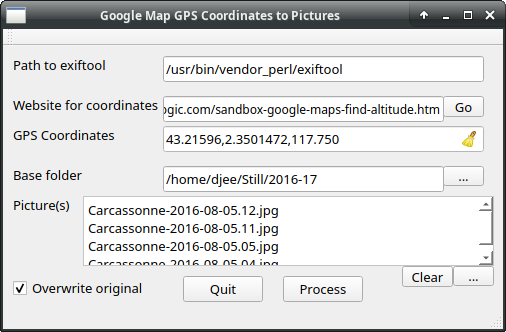
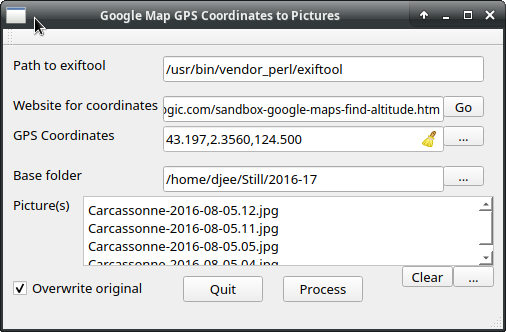
addition of -m and extraction of coordinates added -m to exiftool command line to correct minor errors when applying coordinates on photos added button next to GPS coordinates text area to extract coordinates from a photo and copy them to this text area

diff --git a/mainwindow.cpp b/mainwindow.cpp
@@ -95,13 +95,13 @@ void MainWindow::on_gpsCoodinates_textChanged(const QString &text)
     QRegExp rxSexagesimal("\\D*(\\d+) *° *(\\d+) *' *(\\d*(?:\\.\\d*)?) *\" *([nNsS])"
                           "\\D*(\\d+) *° *(\\d+) *' *(\\d*(?:\\.\\d*)?) *\" *([eEwW])"
                           "(?:[^0-9.-]+(-?\\d*(?:\\.\\d*)?))?\\D*$");
-    mLattitude = mLongitude = mAltitude = 1e99;
+    mLatitude = mLongitude = mAltitude = 1e99;
     if (rxSexagesimal.indexIn(text)>-1 /*&& capturedQRegsNotEmpty(rxSexagesimal)*/) {
-        mLattitude = rxSexagesimal.cap(1).toDouble();
-        mLattitude += rxSexagesimal.cap(2).toDouble() / 60.0;
-        mLattitude += rxSexagesimal.cap(3).toDouble() / 3600.0;
+        mLatitude = rxSexagesimal.cap(1).toDouble();
+        mLatitude += rxSexagesimal.cap(2).toDouble() / 60.0;
+        mLatitude += rxSexagesimal.cap(3).toDouble() / 3600.0;
         if(QString("sS").indexOf(rxSexagesimal.cap(4)[0])>-1)
-         mLattitude = -mLattitude;
+         mLatitude = -mLatitude;
         mLongitude = rxSexagesimal.cap(5).toDouble();
         mLongitude += rxSexagesimal.cap(6).toDouble() / 60.0;
         mLongitude += rxSexagesimal.cap(7).toDouble() / 3600.0;
@@ -112,7 +112,7 @@ void MainWindow::on_gpsCoodinates_textChanged(const QString &text)
          }
        }
     else if (rxDecimal.indexIn(text)>-1 && capturedQRegsNotEmpty(rxDecimal)) {
-      mLattitude = rxDecimal.cap(1).toDouble();
+      mLatitude = rxDecimal.cap(1).toDouble();
       mLongitude = rxDecimal.cap(2).toDouble();
       if(!rxDecimal.cap(3).isEmpty()) {
           mAltitude = rxDecimal.cap(3).toDouble();
@@ -120,7 +120,7 @@ void MainWindow::on_gpsCoodinates_textChanged(const QString &text)
      }
     if(coordinatesAreOkay()) {
         ui->gpsCoodinates->setStyleSheet("QLineEdit " + mcOkayStyle);
-        QString test = "" +  QString("%1").arg(mLattitude) + " ~ " + QString("%1").arg(mLongitude);
+        QString test = "" +  QString("%1").arg(mLatitude) + " ~ " + QString("%1").arg(mLongitude);
         if(altitudeIsOkay()) {
             test += QString(" %1m").arg(mAltitude);
         }
@@ -136,7 +136,7 @@ void MainWindow::on_gpsCoodinates_textChanged(const QString &text)
 
 bool MainWindow::coordinatesAreOkay() const
 {
-    return(mLattitude >= -360.0 && mLattitude<=360.0 &&
+    return(mLatitude >= -360.0 && mLatitude<=360.0 &&
            mLongitude >= -360.0 && mLongitude<=360.0);
 }
 
@@ -162,10 +162,10 @@ bool MainWindow::manageGoPushButton()
 void MainWindow::on_pushBtnGo_clicked()
 {
     QString app = ui->pathToExiftool->text();
-    QString command = QString("\"%1\" -GPSLatitude=%2 -GPSLatitudeRef=%3 -GPSLongitude=%4 -GPSLongitudeRef=%5")
+    QString command = QString("\"%1\" -m -GPSLatitude=%2 -GPSLatitudeRef=%3 -GPSLongitude=%4 -GPSLongitudeRef=%5")
             .arg(quoteQString(app))
-            .arg(abs(mLattitude))
-            .arg(mLattitude>=0 ? "N" : "S")
+            .arg(abs(mLatitude))
+            .arg(mLatitude>=0 ? "N" : "S")
             .arg(abs(mLongitude))
             .arg(mLongitude>=0 ? "E" : "W");
     if(altitudeIsOkay()) {
@@ -235,4 +235,56 @@ void MainWindow::on_checkOverwrite_stateChanged(int checked)
 {
     mOverwriteOriginal =  checked ? true : false;
     mSettings.updateOverwriteOriginal(mOverwriteOriginal);
+}
+
+void MainWindow::on_pushBtnGetCoordFromFile_clicked()
+{
+    QFileDialog dialog(this, tr("Get GPS Coord. from File"), mSettings.getFolder());
+    dialog.setFileMode(QFileDialog::ExistingFile);
+    dialog.setLabelText(QFileDialog::Accept, "Select");
+    dialog.setNameFilter(tr("Images (*.png *.xpm *.jpg *.PNG *.JPG *.XPM);;All (*)"));
+    if (dialog.exec()!=QDialog::Accepted || dialog.selectedFiles().length()<1)
+     return;
+    QString selectedFile = dialog.selectedFiles().first();
+    QString app = ui->pathToExiftool->text();
+    QString command = QString("%1 %2 -gps:gpslatitude -gps:gpslatituderef -gps:gpslongitude -gps:gpslongituderef -gps:gpsaltitude")
+            .arg(quoteQString(app))
+            .arg(quoteQString(selectedFile));
+    QProcess process;
+    process.start(command);
+    process.waitForFinished(-1); // will wait forever until finished
+    QString stdOut = process.readAllStandardOutput();
+    QRegExp rxLatitude("[Ll]atitude *:? *(\\d+) *deg *(\\d+) *' *(\\d*(?:\\.\\d*)?) *\".*((?:North)|(?:South))");
+    QString latitude="undefined";
+    if (rxLatitude.indexIn(stdOut)>-1) {
+        latitude = QString("%1°%2'%3\"%4")
+                .arg(rxLatitude.cap(1)).arg(rxLatitude.cap(2))
+                .arg(rxLatitude.cap(3)).arg(rxLatitude.cap(4)[0]);
+    }
+    QRegExp rxLongitude("[Ll]ongitude *:? *(\\d+) *deg *(\\d+) *' *(\\d*(?:\\.\\d*)?) *\".*((?:East)|(?:West))");
+    QString longitude="undefined";
+    if (rxLongitude.indexIn(stdOut)>-1) {
+        longitude = QString("%1°%2'%3\"%4")
+                .arg(rxLongitude.cap(1)).arg(rxLongitude.cap(2))
+                .arg(rxLongitude.cap(3)).arg(rxLongitude.cap(4)[0]);
+    }
+    QRegExp rxAltitude("[Aa]ltitude *:? *(\\d*(?:\\.\\d*)?) *m[\r\n]");
+    QString altitude = "undefined";
+    if (rxAltitude.indexIn(stdOut)>-1) {
+        altitude = QString("%1").arg(rxAltitude.cap(1));
+    }
+    if (latitude=="undefined" || longitude=="undefined") {
+        QMessageBox msgBox;
+        msgBox.setText(QString("Cannot find any coordinates in '%1'").arg(selectedFile));
+        msgBox.setStandardButtons(QMessageBox::Ok);
+        msgBox.exec();
+        ui->gpsCoodinates->setText("");
+        return;
+    }
+    QString coordinates;
+    coordinates = QString("%1, %2").arg(latitude).arg(longitude);
+    if(altitude != "undefined") {
+        coordinates += QString(", %1").arg(altitude);
+    }
+    ui->gpsCoodinates->setText(coordinates);
 }

diff --git a/mainwindow.h b/mainwindow.h
@@ -47,10 +47,12 @@ private slots:
 
     void on_checkOverwrite_stateChanged(int arg1);
 
+    void on_pushBtnGetCoordFromFile_clicked();
+
 private:
     Ui::MainWindow *ui;
     Settings mSettings;
-    double mLattitude;
+    double mLatitude;
     double mLongitude;
     double mAltitude;
     bool mCoordinatesAreOkay;

diff --git a/README.md b/README.md
@@ -12,6 +12,9 @@ Main purpose is to avoid typing long command lines invoking `ExifTool`
 
 Typical invocation of `Exiftool`:
 
-`exiftool -GPSLatitude=47.361742030311525 -GPSLatitudeRef=N -GPSLongitude=0.675988018529097 -GPSLongitudeRef=E -GPSAltitude=60.000 -GPSAltitudeRef=above -overwrite_original pic1.jpg pic2.jpg`
+`exiftool -m -GPSLatitude=47.361742030311525 -GPSLatitudeRef=N -GPSLongitude=0.675988018529097 -GPSLongitudeRef=E -GPSAltitude=60.000 -GPSAltitudeRef=above -overwrite_original pic1.jpg pic2.jpg`
+
+It also possible to extract GPS coordinates from a photo with a button next GPS Coordinates text area and copy result to this area
+
 
 ![](screenshot.png)
